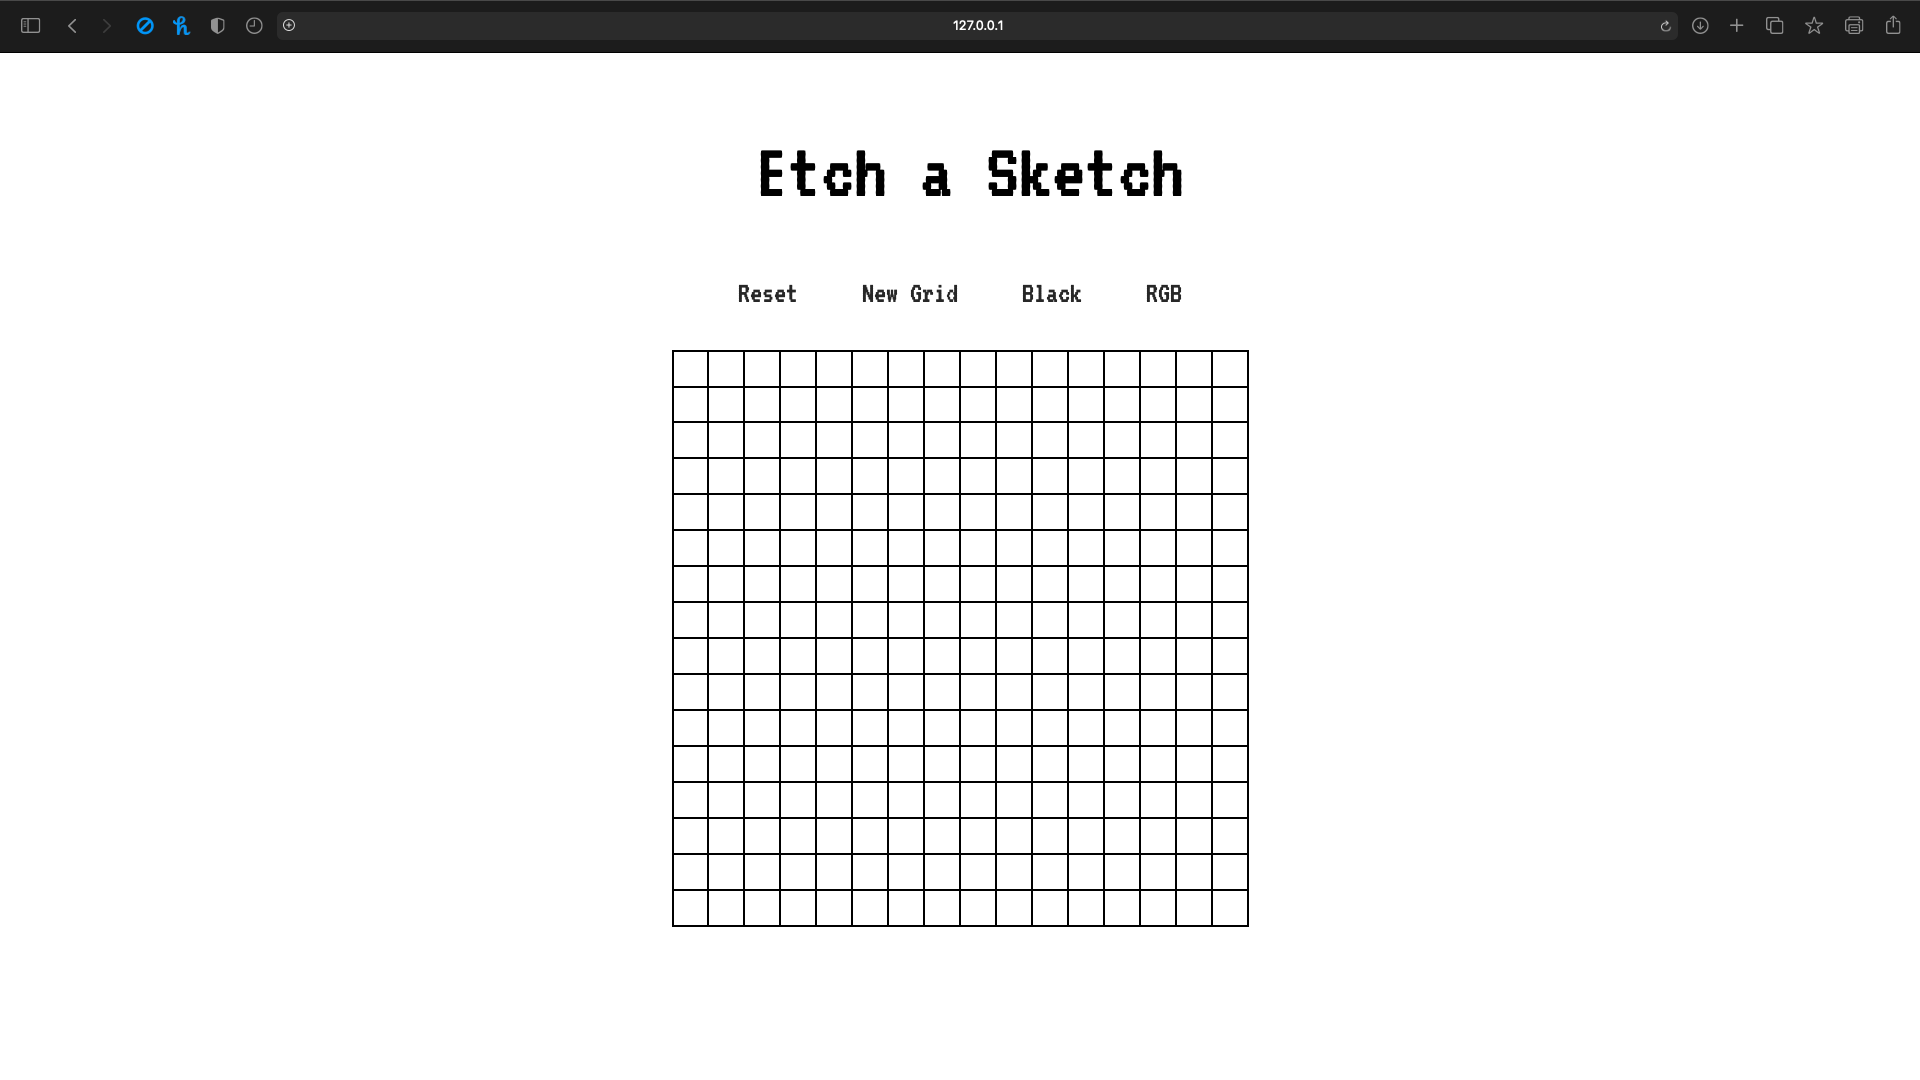
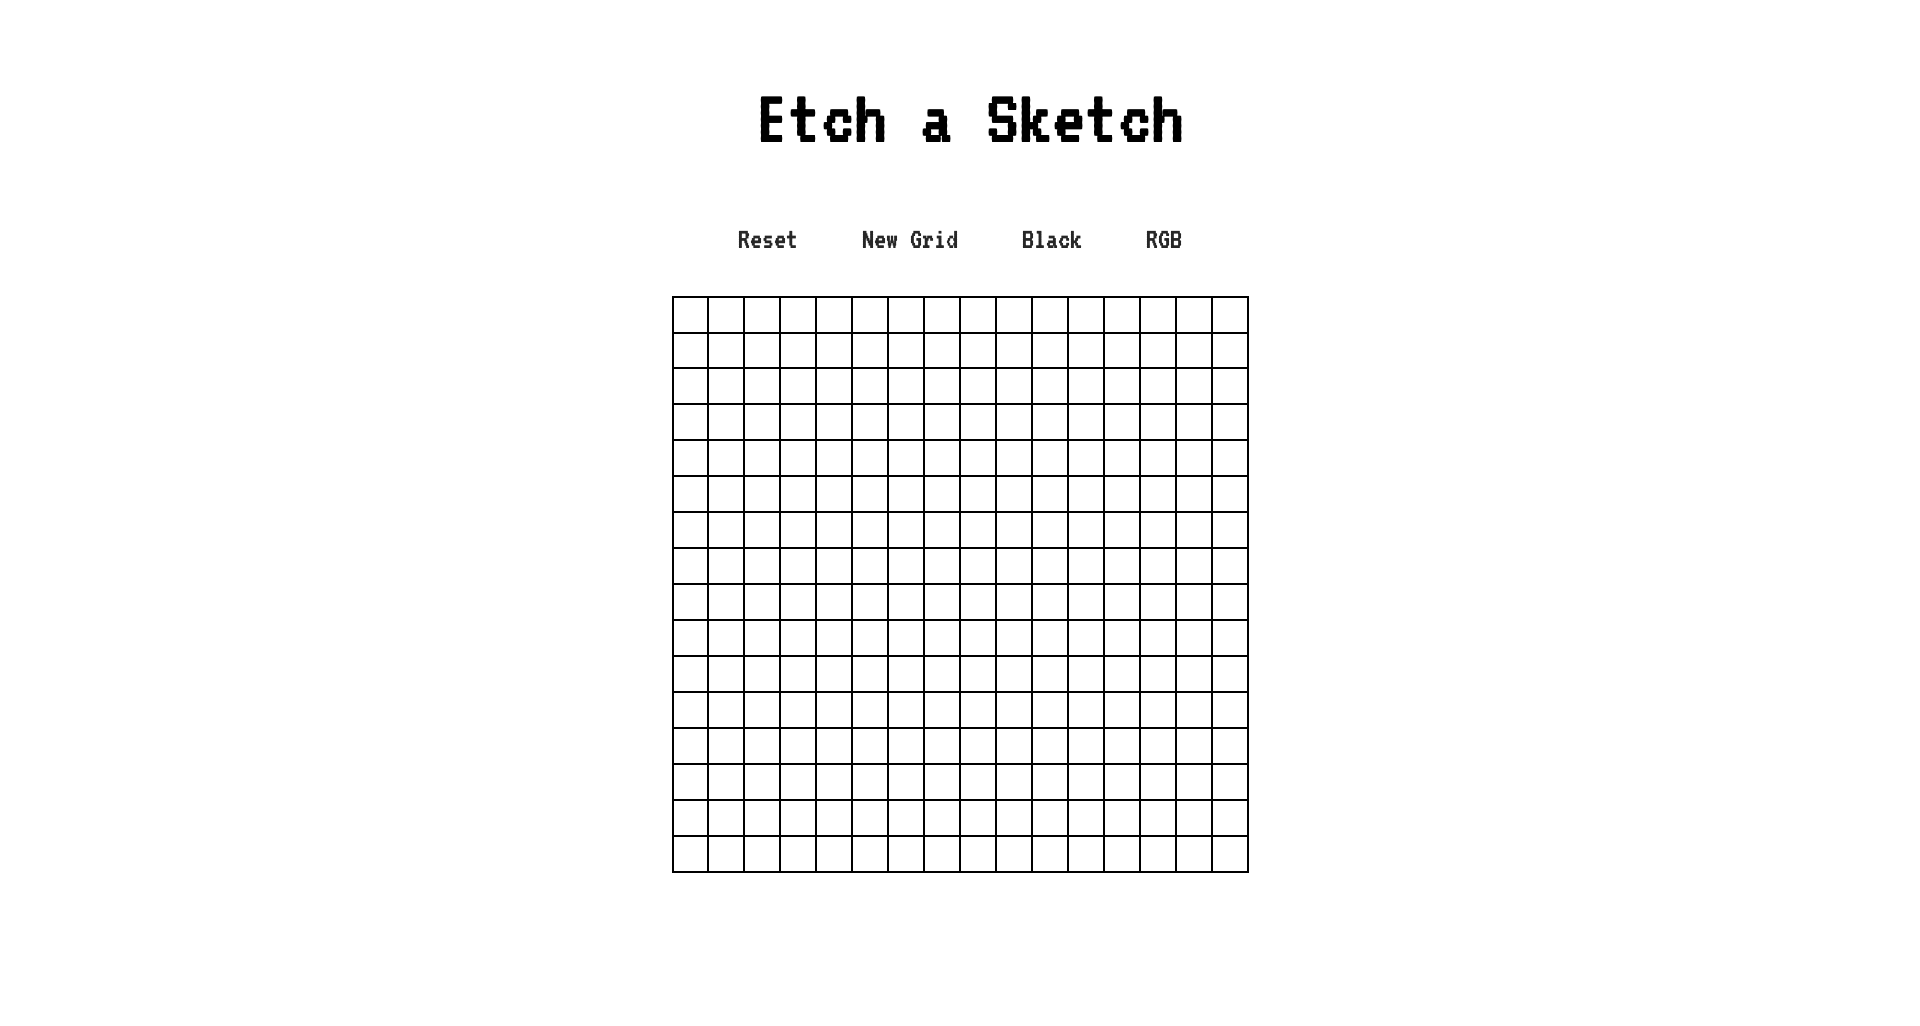
completed

diff --git a/library/style.css b/library/style.css
@@ -19,7 +19,7 @@ img {
 .image-GIF {
     display: flex;
     justify-content: center;
-    margin: 60px;
+    margin: 80px;
 }
 
 button {
@@ -39,7 +39,7 @@ h1 {
 .form-container {
     display: none;
     justify-content: center;
-    margin-top: 80px;
+    margin-top: 100px;
 }
 
 input {
